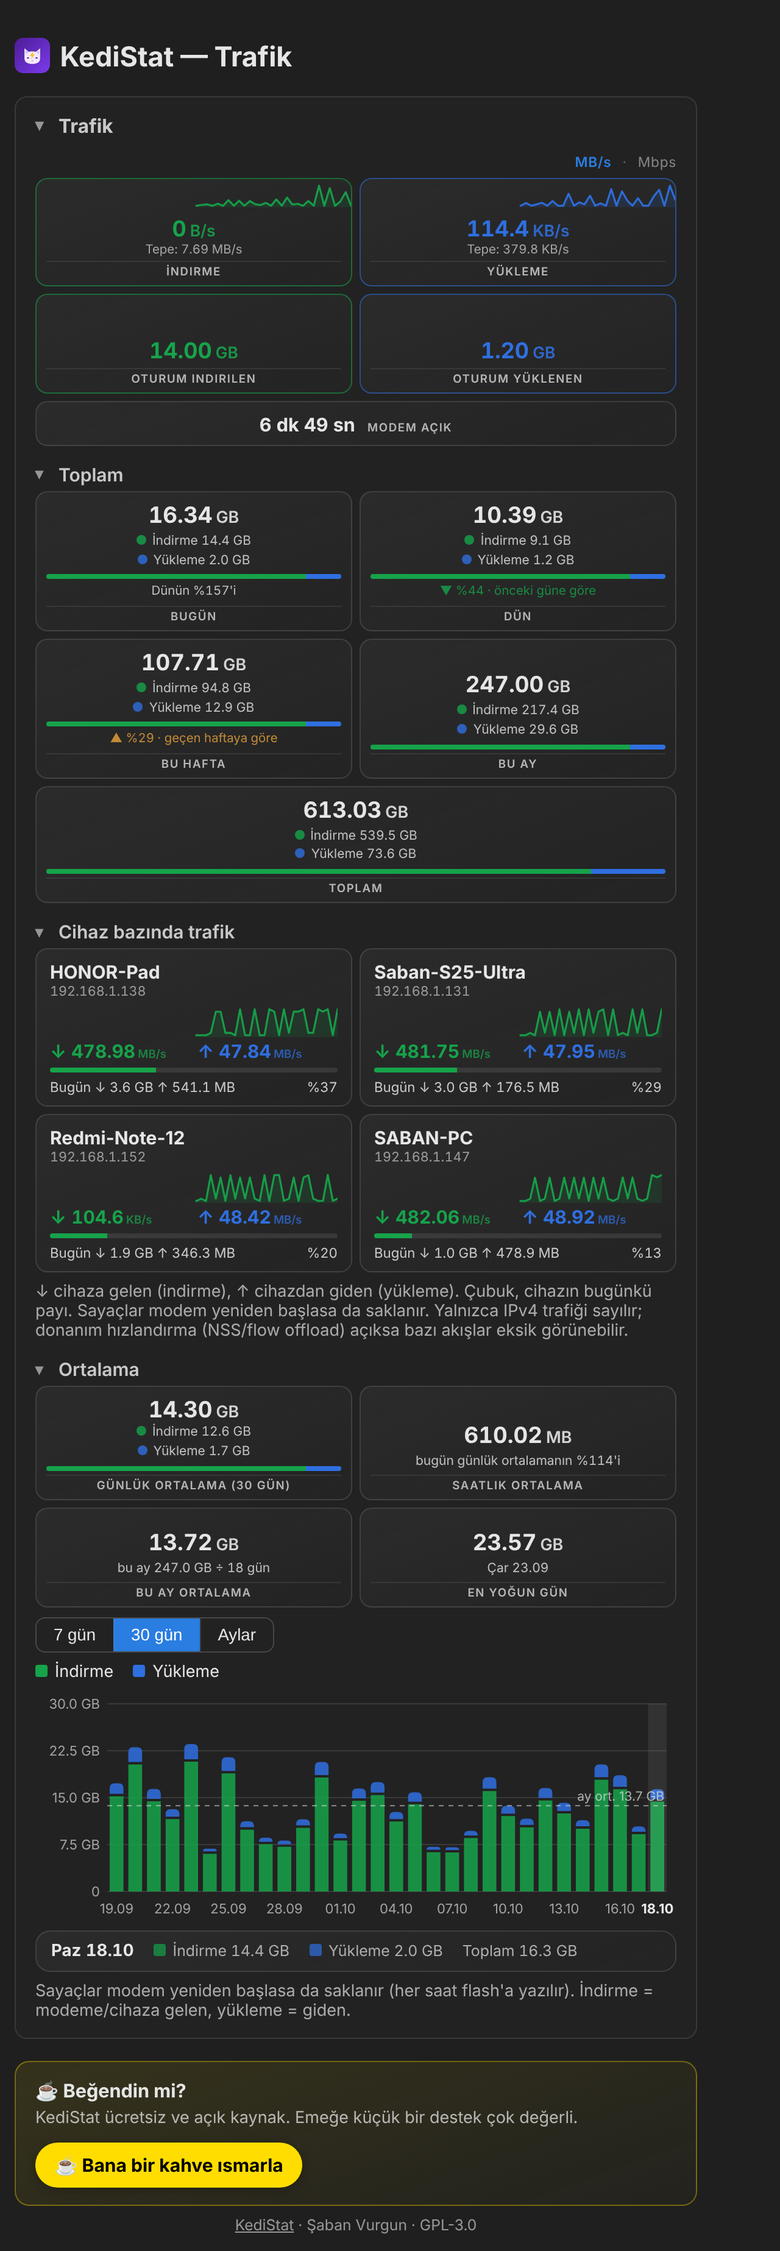
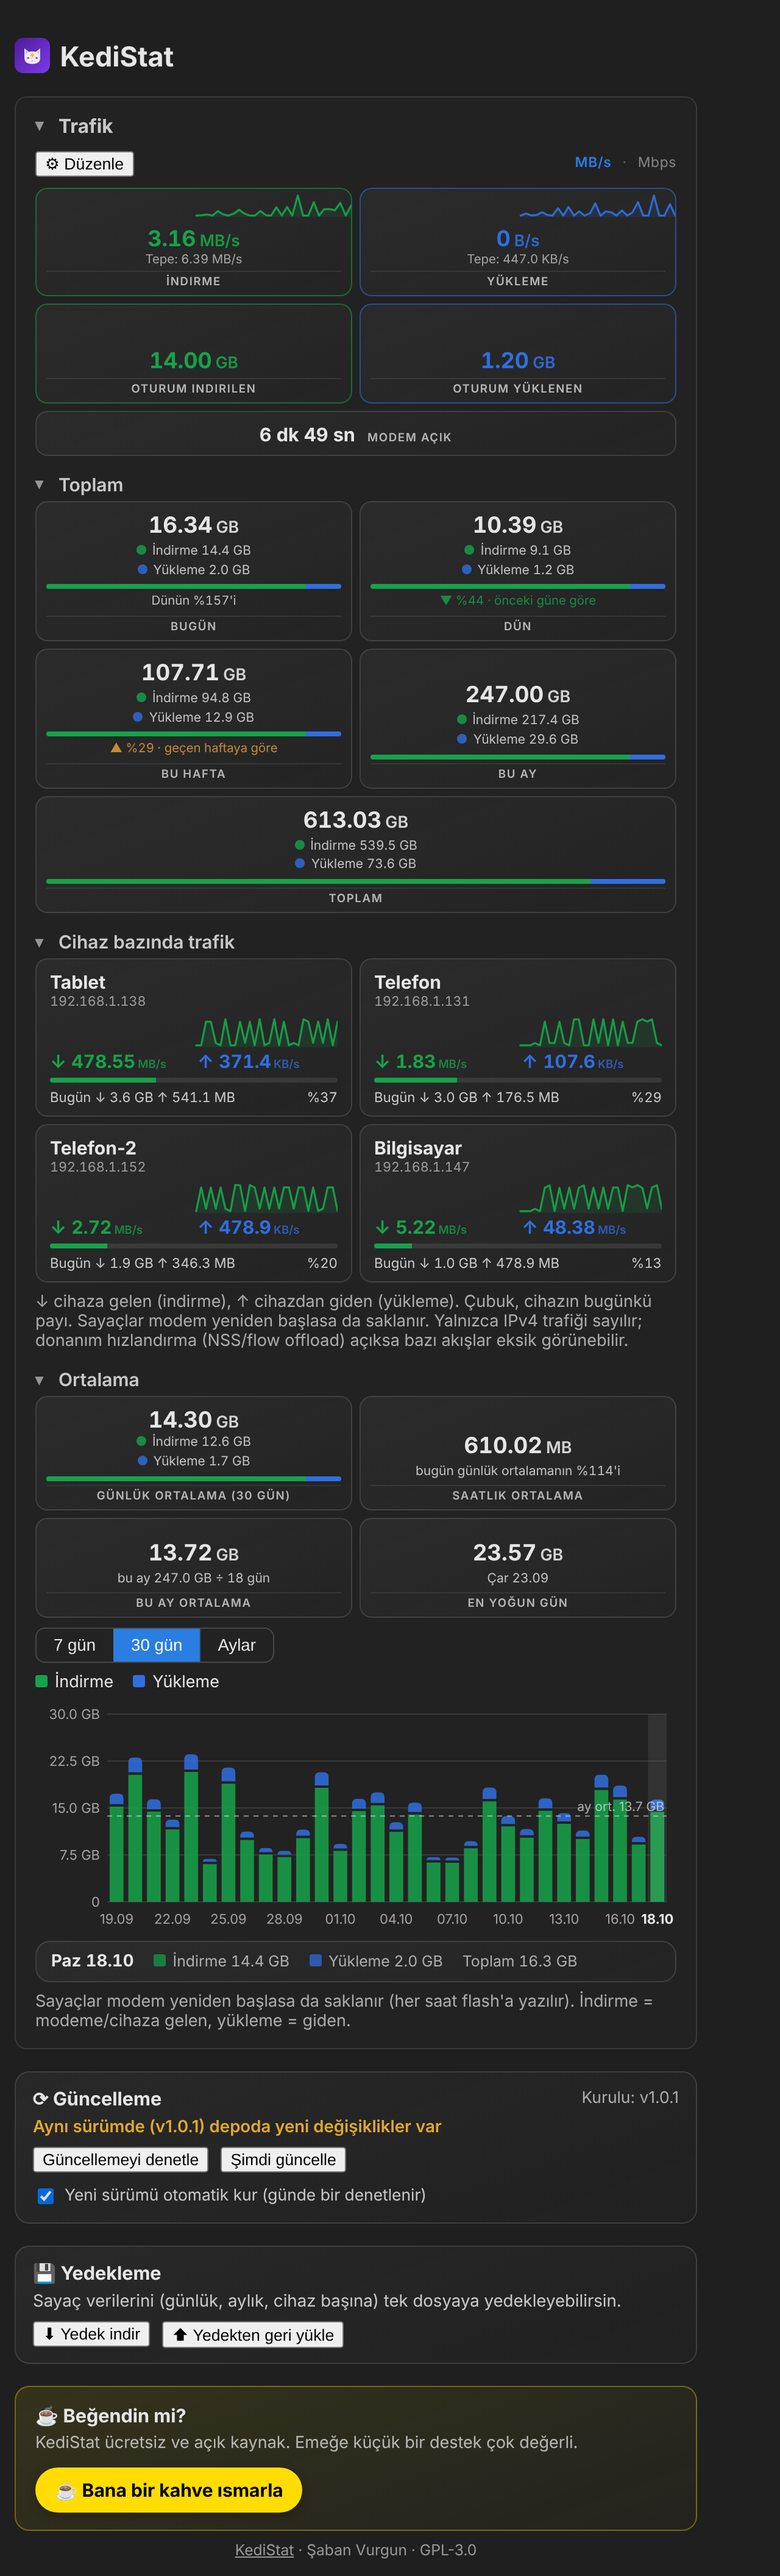
README: tek önizleme, cihaz adları genelleştirildi (kişisel isimler yok)
Claude-Session: https://claude.ai/code/session_01McjGVwSFtA4fpbyWhdTPqe

diff --git a/README.md b/README.md
@@ -18,9 +18,9 @@ LuCI → **Araçlar** (yoksa **Hizmetler**) → **KediStat**.
 
 ## Ekran görüntüleri
 
-<p align="center"><img src="docs/onizleme.png" alt="KediStat Trafik sayfası" width="420">&nbsp;&nbsp;<img src="docs/onizleme-mobil.png" alt="KediStat mobil görünüm" width="260"></p>
+<p align="center"><img src="docs/onizleme.png" alt="KediStat" width="420"></p>
 
-*Örnek (sentetik) verilerle: canlı hız, dönem toplamları, cihaz kartları ve grafik.*
+*Örnek verilerle: canlı hız, dönem toplamları, cihaz kartları ve grafik.*
 
 ## Özellikler
 - Canlı hız, oturum, bugün/dün/hafta/ay/toplam kartları ve önceki dönemle karşılaştırma
